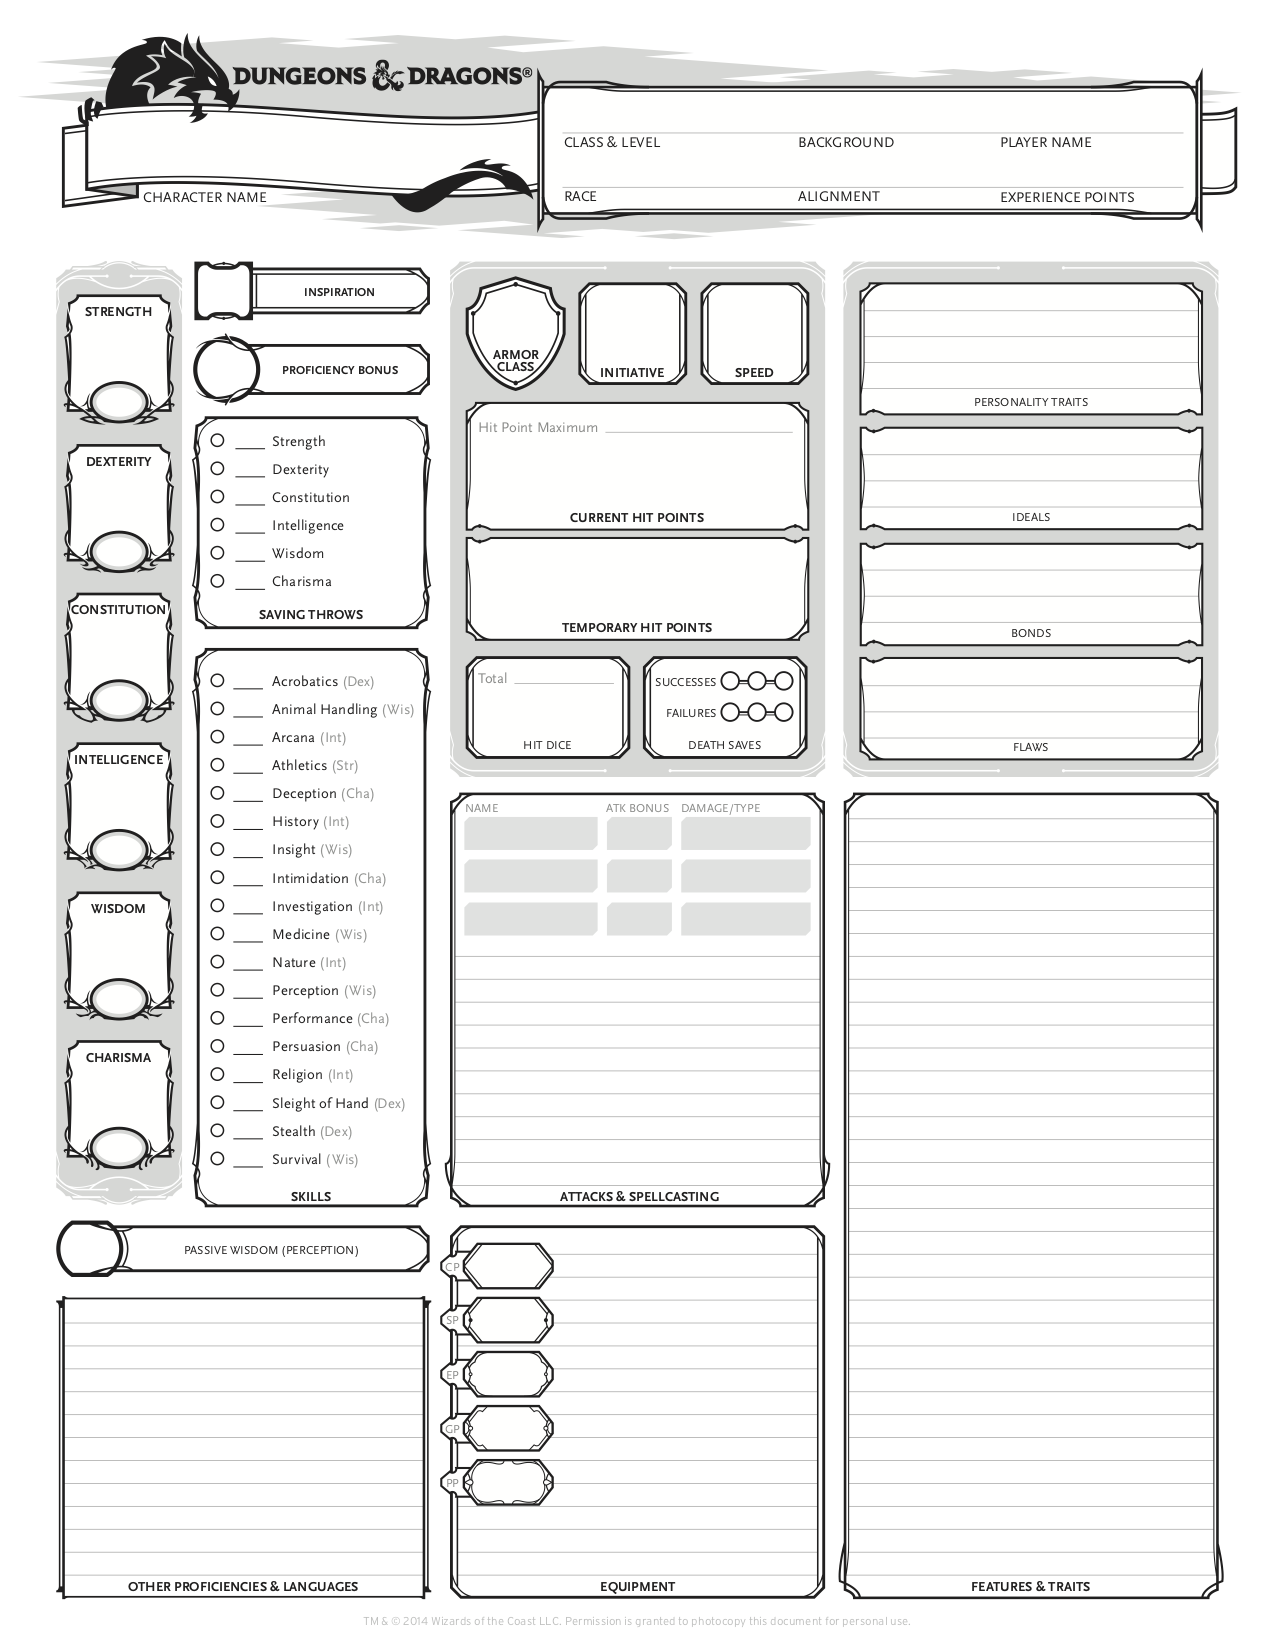
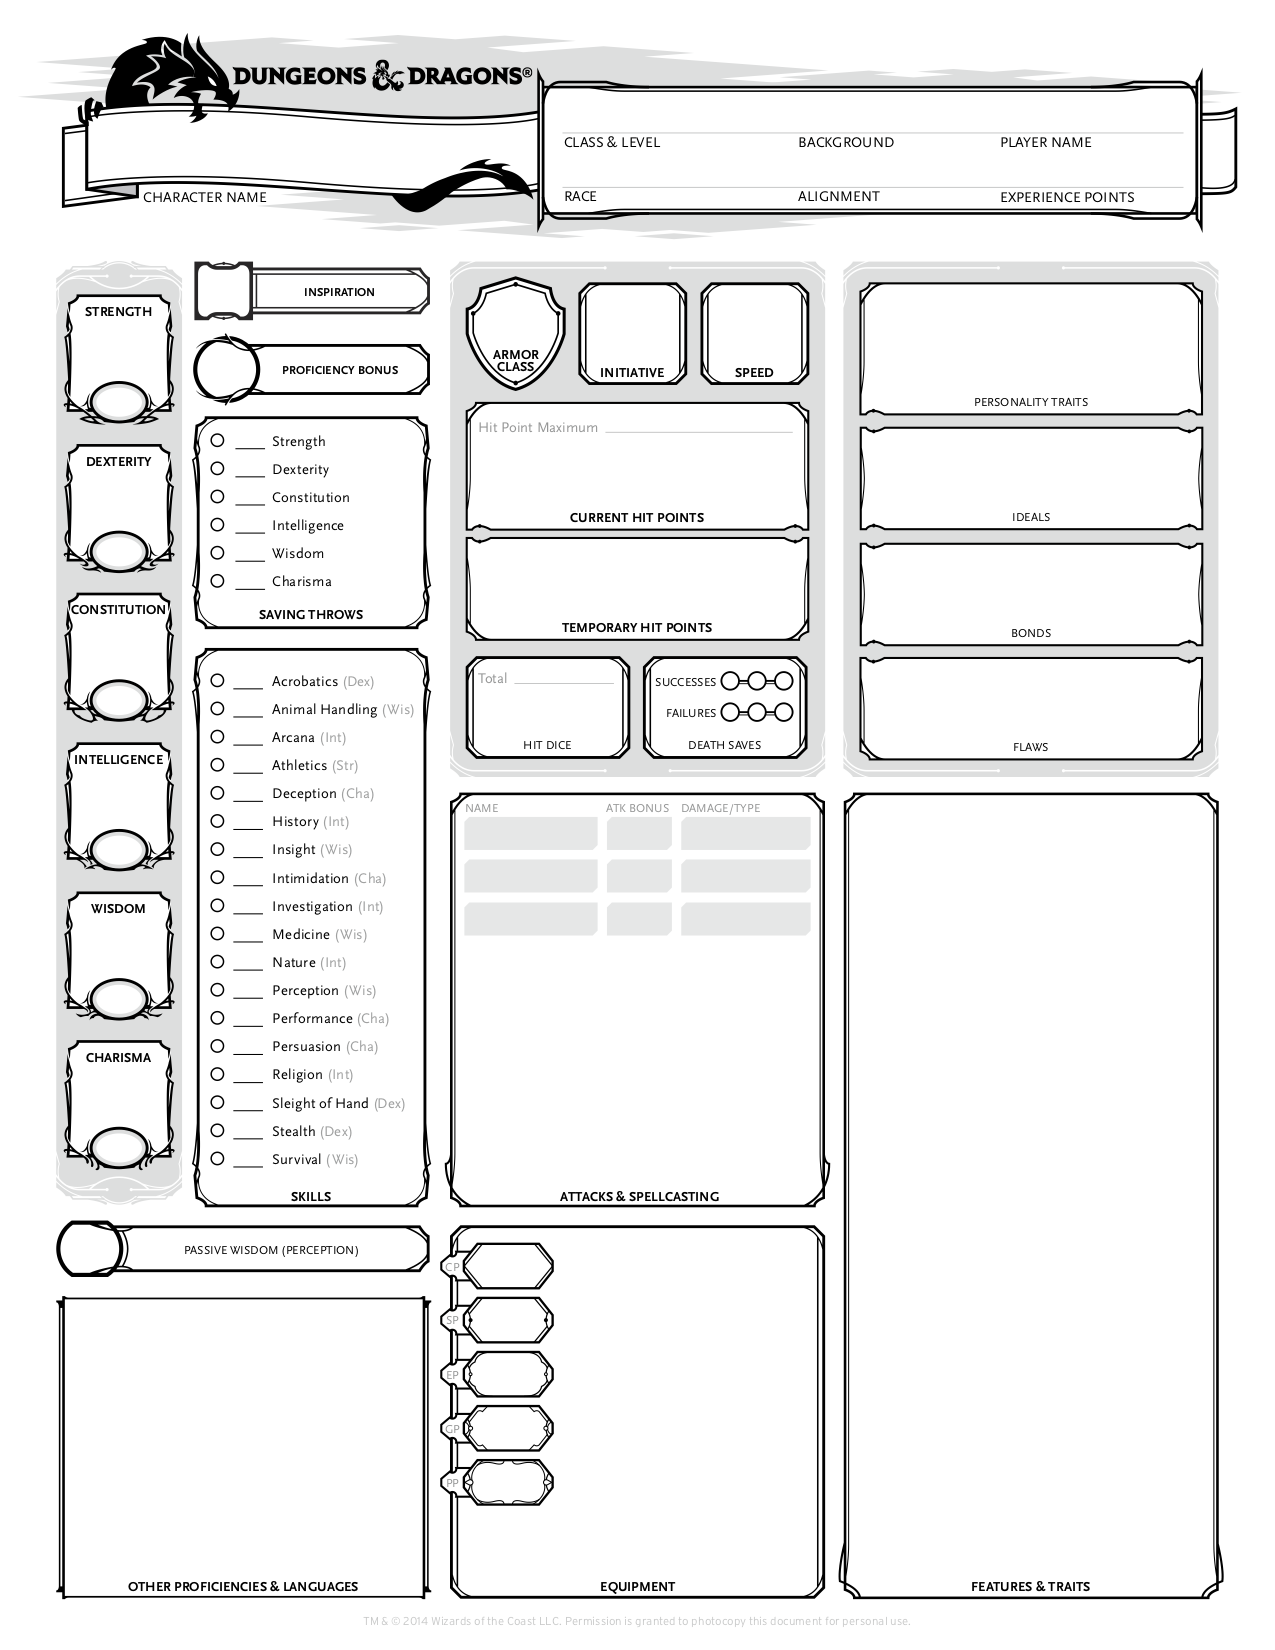
added some fields, poorly

diff --git a/Generator.py b/Generator.py
@@ -1,10 +1,76 @@
 from PIL import Image, ImageDraw, ImageFont
-import os
 
 
-coords =  (105,396)
+class Sheet:
+    """Class to hold coordinates in Character Sheet"""
+    def __init__(self):
+        self.str_coords = (105, 390)
+        self.dex_coords = (105, 540)
+        self.con_coords = (105, 690)
+        self.int_coords = (105, 838)
+        self.wis_coords = (105, 987)
+        self.cha_coords = (105, 1135)
+
+        self.acro_coords = (237, 673)
+        self.anim_coords = (237, self.acro_coords[1] + 29)
+        self.arca_coords = (237, self.acro_coords[1] + (29 * 2))
+        self.athl_coords = (237, self.acro_coords[1] + (29 * 3))
+        self.dece_coords = (237, self.acro_coords[1] + (29 * 4))
+        self.hist_coords = (237, self.acro_coords[1] + (29 * 5))
+        self.insi_coords = (237, self.acro_coords[1] + (29 * 6))
+        self.inti_coords = (237, self.acro_coords[1] + (29 * 7))
+        self.inve_coords = (237, self.acro_coords[1] + (29 * 8))
+        self.medi_coords = (237, self.acro_coords[1] + (29 * 9))
+        self.natu_coords = (237, self.acro_coords[1] + (29 * 10))
+        self.perc_coords = (237, self.acro_coords[1] + (29 * 11))
+        self.perf_coords = (237, self.acro_coords[1] + (29 * 12))
+        self.pers_coords = (237, self.acro_coords[1] + (29 * 13))
+        self.reli_coords = (237, self.acro_coords[1] + (29 * 14))
+        self.slei_coords = (237, self.acro_coords[1] + (29 * 15))
+        self.stea_coords = (237, self.acro_coords[1] + (29 * 16))
+        self.surv_coords = (237, self.acro_coords[1] + (29 * 17))
+
+
+class Character:
+    """Class to represent character attributes"""
+    def __init__(self, stre, dext, cons, inte, wisd, char):
+        self.stre = stre
+        self.dext = dext
+        self.cons = cons
+        self.inte = inte
+        self.wisd = wisd
+        self.char = char
+
+
+CharacterSheet = Sheet()
+Gillian = Character(17,18,19,20,21,22)
+
 im = Image.open('CharacterSheet.png')
-draw = ImageDraw.Draw(im)
-fnt = ImageFont.truetype('/Library/Fonts/Arial.ttf', 25)
-draw.text(coords, '17', font=fnt, fill='black')
+drw = ImageDraw.Draw(im)
+fnt = ImageFont.truetype('/Library/Fonts/Courier New.ttf', 25)
+drw.text(CharacterSheet.str_coords, str(Gillian.stre), font=fnt, fill='black')
+drw.text(CharacterSheet.dex_coords, str(Gillian.dext), font=fnt, fill='black')
+drw.text(CharacterSheet.con_coords, str(Gillian.cons), font=fnt, fill='black')
+drw.text(CharacterSheet.int_coords, str(Gillian.inte), font=fnt, fill='black')
+drw.text(CharacterSheet.wis_coords, str(Gillian.wisd), font=fnt, fill='black')
+drw.text(CharacterSheet.cha_coords, str(Gillian.char), font=fnt, fill='black')
+
+
+fnt = ImageFont.truetype('/Library/Fonts/Courier New.ttf', 14)
+drw.text(CharacterSheet.acro_coords, str(Gillian.char), font=fnt, fill='black')
+drw.text(CharacterSheet.anim_coords, str(Gillian.char), font=fnt, fill='black')
+drw.text(CharacterSheet.arca_coords, str(Gillian.char), font=fnt, fill='black')
+drw.text(CharacterSheet.athl_coords, str(Gillian.char), font=fnt, fill='black')
+drw.text(CharacterSheet.dece_coords, str(Gillian.char), font=fnt, fill='black')
+drw.text(CharacterSheet.hist_coords, str(Gillian.char), font=fnt, fill='black')
+drw.text(CharacterSheet.inti_coords, str(Gillian.char), font=fnt, fill='black')
+drw.text(CharacterSheet.insi_coords, str(Gillian.char), font=fnt, fill='black')
+drw.text(CharacterSheet.inve_coords, str(Gillian.char), font=fnt, fill='black')
+drw.text(CharacterSheet.medi_coords, str(Gillian.char), font=fnt, fill='black')
+drw.text(CharacterSheet.natu_coords, str(Gillian.char), font=fnt, fill='black')
+drw.text(CharacterSheet.perc_coords, str(Gillian.char), font=fnt, fill='black')
+
+
+
+
 im.save('Output.png')
